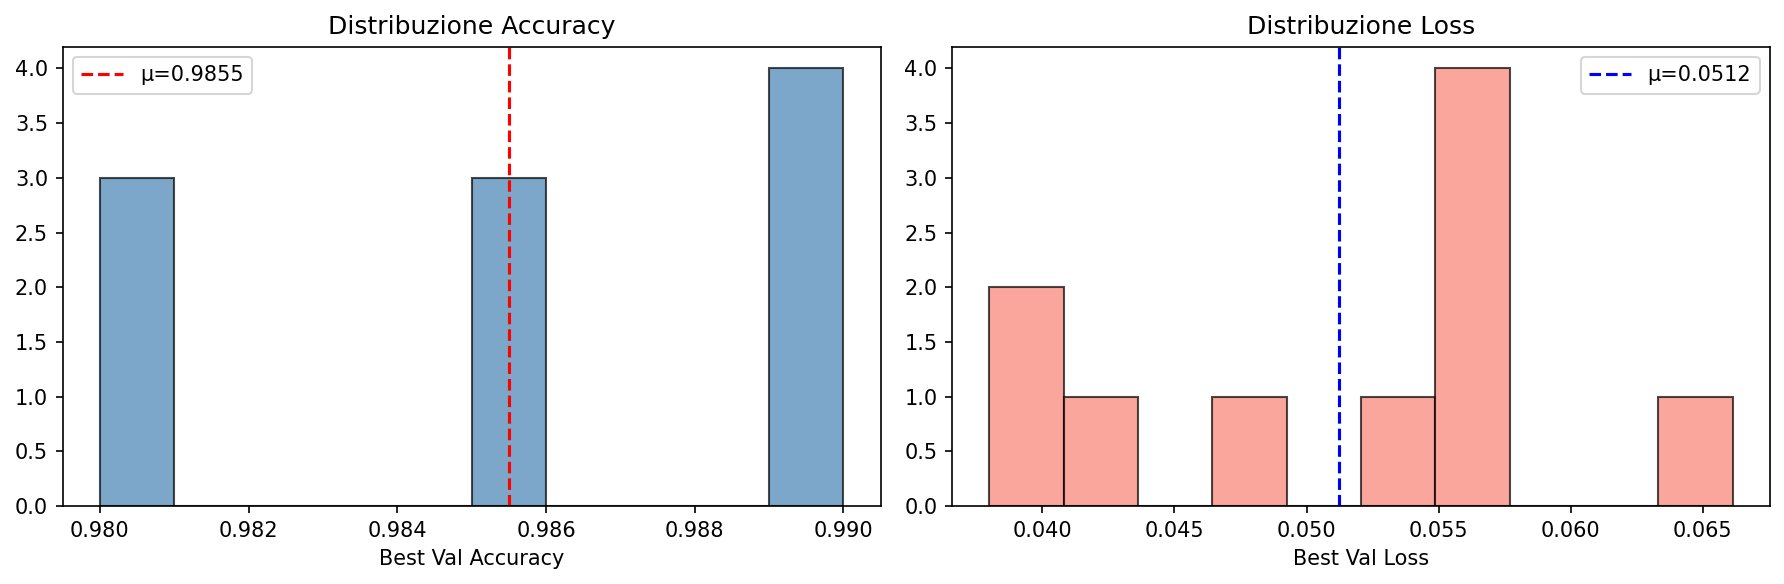
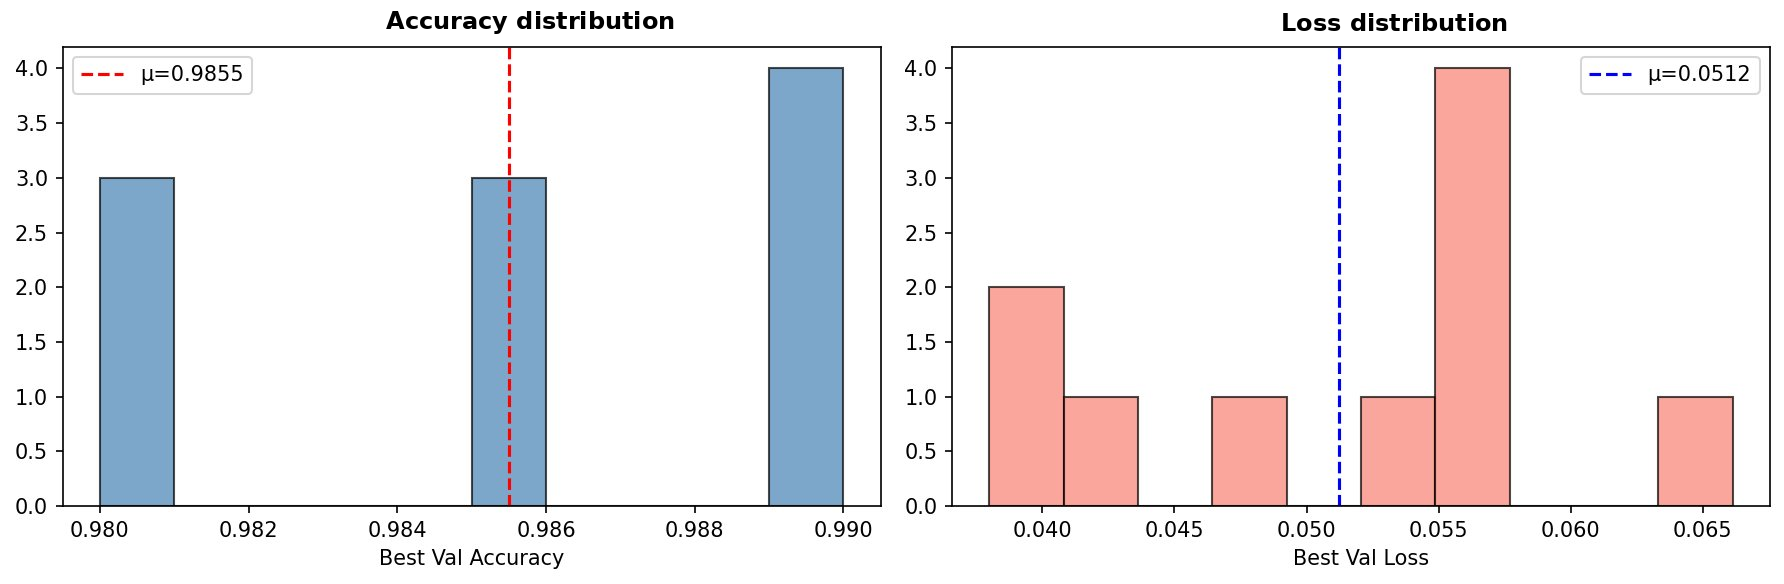
Remove all Italian-language residues from text and figures
Text edits (chapters/quantum_algorithms.tex):
  - 'pere con pere' (6 occurrences) -> 'like-for-like' / 'matched
    capacity' / 'matched-capacity comparison' / removed
  - label fig:wave-K-pair-pere-con-pere -> fig:wave-K-pair-matched-capacity
    (with corresponding \ref update)
  - 1 inline LaTeX comment: 'stessi nomi di main.tex; il wrapper...'
    -> 'same names as in main.tex; the wrapper...'

Comment translations (no PDF effect):
  - main.tex: 6 LaTeX comments in the \@part / \partnopage redefinition
    block (contatore, ridefinizione, titolo nel testo, aumenta il
    contatore, inserisce l'intestazione, voce nel TOC, titolo visibile)
  - chapters/quantum_hw.tex: 2 LaTeX comments (Titolo grassetto,
    riduce il font)

Figure title overlay (in-place PNG, data and axes preserved):
  - CCNN_distributions.png:
      'Distribuzione Accuracy' -> 'Accuracy distribution'
      'Distribuzione Loss'     -> 'Loss distribution'
  - curves_QCNN_vs_CCNN_small.png:
      'Loss vs epoch — pere con pere'     -> '... — matched comparison'
      'Accuracy vs epoch — pere con pere' -> '... — matched comparison'
  - violin_three_models.png:
      'Wave-K R=10 — pere con pere: ...'  -> 'Wave-K R=10 — matched-capacity: ...'

Exhaustive grep over chapters/*.tex, main.tex, frontespizio.tex now
returns zero matches for Italian-language patterns.

Changed region(s): [[0.185, 0.0, 0.4008, 0.0616], [0.6783, 0.0308, 0.8632, 0.0616]]

diff --git a/chapters/quantum_algorithms.tex b/chapters/quantum_algorithms.tex
@@ -1050,7 +1050,7 @@ replaced by a $\mathrm{Conv2d}(6{\to}6,\,k{=}3,\,p{=}0)+\mathrm{BN}+\mathrm{ReLU
 block of equivalent input--output shape, followed by an identical linear
 head $\mathrm{Linear}(1176{\to}392{\to}2)$. Total trainable parameters:
 $463{,}898$, i.e.\ within $0.07\%$ of the hybrid Q-CNN of Level~3 below.
-This is the ``pere con pere'' (\emph{like with like}) comparison.
+This is the like-for-like comparison.
 \item \textbf{Level 3 (hybrid Q-CNN).} The simulator-trained Hybrid
 Q--CNN of this section, run on Qiskit~Aer in noiseless statevector mode.
 The quanvolutional layer uses a $3{\times}3$ kernel mapped to nine
@@ -1091,7 +1091,7 @@ LEVEL 3 (hybrid QCNN noiseless, 463 574 params, R=10):
 
 PAIRED WILCOXON SIGNED-RANK (4-decimal-rounded diffs, exact two-sided):
   Level 3 vs Level 1 (asymmetric capacity): W=0,  p=3.9e-3, Cohen's d_paired = -1.48
-  Level 3 vs Level 2 (pere con pere):       W=6,  p=2.7e-2, Cohen's d_paired = -0.87
+  Level 3 vs Level 2 (matched capacity):    W=6,  p=2.7e-2, Cohen's d_paired = -0.87
   Level 1 vs Level 2 (capacity effect):     W=3.5, p=2.7e-2, Cohen's d_paired = +0.97
 
 ITEM-LEVEL McNEMAR (only for 3 QCNN seeds with val_correct_final on disk
@@ -1150,8 +1150,7 @@ therefore real but quantitatively modest, $\bar{a}_{\mathrm{big}} -
 saturation regime. This sets the scale against which the hybrid
 ablation has to be read.
 
-\paragraph{Hybrid Q-CNN versus the matched-capacity classical control
-(``pere con pere'').}
+\paragraph{Hybrid Q-CNN versus the matched-capacity classical control.}
 The paired comparison most relevant to the architectural question is
 Level~3 against Level~2, which differ only in whether the adaptation
 block between the two convolutional stages is a $\mathrm{Conv2d}$ layer
@@ -1280,7 +1279,7 @@ classical trunk adapted only via the standard classification gradient.
 \begin{figure}[H]
     \centering
     \includegraphics[width=0.98\linewidth]{chapters/qa_figures/curves_QCNN_vs_CCNN_small.png}
-    \caption{\emph{Pere con pere}: cross-entropy loss (left) and
+    \caption{\emph{Matched-capacity comparison}: cross-entropy loss (left) and
     validation accuracy (right) versus epoch for the hybrid Q-CNN
     (\emph{Level 3}, blue) and the matched-capacity classical control
     (\emph{Level 2}, orange) over the $R=10$ seeds of the Wave-K campaign.
@@ -1380,7 +1379,7 @@ classical trunk adapted only via the standard classification gradient.
 Level~3).}
 A per-seed paired comparison restricted to the matched-capacity case
 (Levels~2 and~3 only) is summarised in
-Fig.~\ref{fig:wave-K-pair-pere-con-pere}: the slope plot shows the
+Fig.~\ref{fig:wave-K-pair-matched-capacity}: the slope plot shows the
 $10$ seeds individually, with the across-seed means linked by the
 heavier red line, and the bar panel reports the per-seed differences
 $\Delta_{r} = a_{\mathrm{hybrid},r} - a_{\mathrm{small},r}$. Eight of
@@ -1407,7 +1406,7 @@ $p$-values.
     Dashed horizontal lines mark the two means: $\bar{\Delta}_{\mathrm{
     hybrid-small}} = -0.0255$ (blue) and $\bar{\Delta}_{\mathrm{
     big-small}} = +0.0135$ (green).}
-    \label{fig:wave-K-pair-pere-con-pere}
+    \label{fig:wave-K-pair-matched-capacity}
 \end{figure}
 
 \begin{figure}[H]
@@ -1452,7 +1451,7 @@ $p$-values.
 % to preserve the asset; uncomment only as qualitative illustration.
 \begin{figure}[H]
     \centering
-    % stessi nomi di main.tex; il wrapper sostituisce 'chapters/qa_figures/' con 'figures/'
+    % same names as in main.tex; the wrapper substitutes 'chapters/qa_figures/' with 'figures/'
 %    \includegraphics[width=1\linewidth]{chapters/qa_figures/qadv_1.png}
     \includegraphics[width=0.5\linewidth]{chapters/qa_figures/Quantum-only_with_std.png}
     \caption{Accuracy vs.~Epoch for Sebastianelli-like \cal{pure quantum} network architecture.}

diff --git a/main.tex b/main.tex
@@ -109,15 +109,15 @@
 }
 
 \makeatletter
-% contatore in lettere maiuscole
+% counter in capital letters
 \renewcommand\thepart{\Alph{part}}
 \renewcommand\partname{Part}
-% ridefinizione di \@part con [#1]#2 come nella classe standard
+% redefinition of \@part with [#1]#2 as in the standard class
 \def\@part[#1]#2{%
   \ifnum \c@secnumdepth > -2\relax
     \refstepcounter{part}%
     \markboth{}{}%
-    % titolo nel testo
+    % title in the body
     {\centering
       \Huge\bfseries
       \partname~\thepart\\[1ex]
@@ -134,13 +134,13 @@
 \makeatletter
 \newcommand{\partnopage}[2][]{%
   \ifnum \c@secnumdepth > -2\relax
-    % aumenta il contatore PART esattamente come \@part
+    % increment the PART counter exactly as \@part does
     \refstepcounter{part}%
-    % inserisce l'intestazione vuota come nel tuo comando
+    % insert the empty header as in your command
     \markboth{}{}%
-    % voce nel TOC: Part A + eventuale titolo corto
+    % TOC entry: Part A plus optional short title
 %    \addcontentsline{toc}{part}{\partname~\thepart\hspace{1em}#1}%
-    % titolo visibile
+    % visible title
     {\centering
       \Huge\bfseries
       \partname~\thepart\\[1ex]

diff --git a/chapters/quantum_hw.tex b/chapters/quantum_hw.tex
@@ -390,7 +390,7 @@
 \renewcommand{\abstractname}{Summary}
 \renewenvironment{abstract}{%
   \par\noindent
-  {\bfseries\large\abstractname}\par  % Titolo grassetto a sinistra
+  {\bfseries\large\abstractname}\par  % Bold title, left-aligned
   \vspace{0.5em}
   \noindent
 }{%
@@ -2776,7 +2776,7 @@ Multiple strategies can close the 0.1\% gap:
 
 \begin{table}[t]
 \centering
-\small % <-- riduce il font rispetto al corpo del testo
+\small % <-- reduces the font compared to the body text
 \renewcommand{\arraystretch}{1.15} % compatta leggermente le righe
 \setlength{\tabcolsep}{5pt} % riduce lo spazio orizzontale tra colonne
 \caption{Summary of hardware and control strategies and their expected impact on error budget.}
